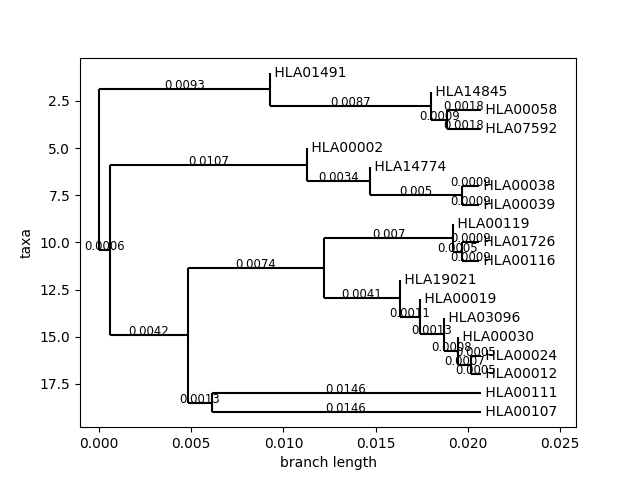
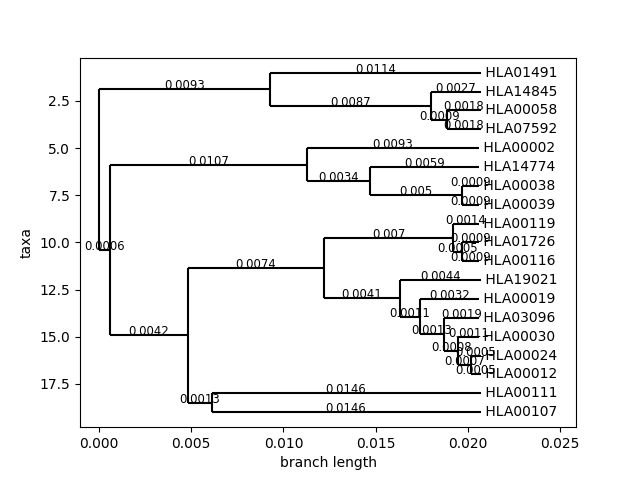
fixed missing label

diff --git a/UPGMA.py b/UPGMA.py
@@ -21,9 +21,9 @@ def UPGMA(matrix, names1, place_to_round):
         if ' ' in names[minimum[0]] and ' ' in names[minimum[1]]:
             newick = "(" + nodesStr[names[minimum[0]]][0] + ":" + str(round(m[minimum[0]][minimum[1]] / 2.0 - nodesStr[names[minimum[0]]][1], place_to_round)) + "," + nodesStr[names[minimum[1]]][0] + ":" + str(round(m[minimum[0]][minimum[1]] / 2.0 - nodesStr[names[minimum[1]]][1], place_to_round)) + ")"
         elif ' ' in names[minimum[1]]:
-            newick = "(" + orig[int(names[minimum[0]])] + ":" + str(round(m[minimum[0]][minimum[1]] / 2.0)) + "," + nodesStr[names[minimum[1]]][0] + ":" + str(round(m[minimum[0]][minimum[1]] / 2.0 - nodesStr[names[minimum[1]]][1], place_to_round)) + ")"
+            newick = "(" + orig[int(names[minimum[0]])] + ":" + str(round(m[minimum[0]][minimum[1]] / 2.0,place_to_round)) + "," + nodesStr[names[minimum[1]]][0] + ":" + str(round(m[minimum[0]][minimum[1]] / 2.0 - nodesStr[names[minimum[1]]][1], place_to_round)) + ")"
         elif ' ' in names[minimum[0]]:
-            newick = "(" + nodesStr[names[minimum[0]]] + ":" + str(round(m[minimum[0]][minimum[1]] / 2.0 - nodesStr[names[minimum[0]]][1]), place_to_round) + "," + orig[int(names[minimum[1]])] + ":" + str(round(m[minimum[0]][minimum[1]] / 2.0,place_to_round)) + ")"
+            newick = "(" + nodesStr[names[minimum[0]]] + ":" + str(round(m[minimum[0]][minimum[1]] / 2.0 - nodesStr[names[minimum[0]]][1], place_to_round)) + "," + orig[int(names[minimum[1]])] + ":" + str(round(m[minimum[0]][minimum[1]] / 2.0,place_to_round)) + ")"
         else:
             newick = "(" + orig[int(names[minimum[0]])] + ":" + str(round(m[minimum[0]][minimum[1]] / 2.0, place_to_round)) + "," + orig[int(names[minimum[1]])] + ":" + str(round(m[minimum[0]][minimum[1]] / 2.0,place_to_round)) + ")"
 
